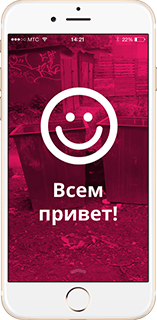
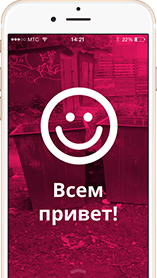
Стилизация главной страницы под планшет

diff --git a/src/index.html b/src/index.html
@@ -38,8 +38,8 @@
       <h1 class="visually-hidden">Pink.Приложение для работы с фотограффиями</h1>
       <section class="promo">
         <picture class="promo__picture picture">
-          <img class="promo__image" src="images/pictures/promo/iphone-6.png" width="320px" height="314px"
-            alt="Изображение Iphone-6 c приложением Pink">
+          <source media="(min-width: 768px)" srcset="images/pictures/promo/iphone-6-tablet.png">
+          <img class="promo__image" src="images/pictures/promo/iphone-6.png" alt="Изображение Iphone-6 c приложением Pink">
         </picture>
         <div class="promo__content-wrapper">
           <h2 class="promo__heading heading">Взгляните на жизнь иначе!</h2>
@@ -73,6 +73,7 @@
         <p class="advantages__text text">Устали от серости мегаполиса?</p>
         <p class="advantages__text text">Нам есть, что вам предложить!</p>
       </div>
+      <div class="advantages__content-wrapper">
       <ul class="advantages__list list">
         <li class="advantages__item">
           <h3 class="advantages__title heading">Поднимает настроение</h2>
@@ -93,10 +94,12 @@
         </li>
       </ul>
       <picture class="advantages__item-pictures picture">
+        <source media="(min-width: 768px)" srcset="images/pictures/advantages/iphone-screen-tablet.png">
         <img class="advantages__item-image" src="images/pictures/advantages/iphone-screen.png"
           alt="Скрин Iphone 5 со смайликом">
       </picture>
-      <div class="advantages__content-wrapper">
+    </div>
+      <!-- <div class="advantages__content-wrapper">
         <span class="advantages__timer">24</span>
         <ul class="advantages__list advantages__list--secondary  list">
           <h3 class="advantages__title heading">Эффект на 24 часа!</h3>
@@ -105,7 +108,7 @@
           </p>
           <a class="advantages__item-link link" href="#">Узнать больше об исследовании</a>
         </ul>
-      </div>
+      </div> -->
     </section>
 
     <section class="reviews">
@@ -129,24 +132,51 @@
     </section>
 
     <section class="price">
+      <div class="container">
       <h2 class="visually-hidden">Прайс цен на пакеты приложения</h2>
       <table class="price__table">
         <tr class="price__row">
           <th class="price__title">
-            <span class="price__title-package">Стандарт</span>
-            <span class="price__title-cost">3,99 USD</span>
+          </th>
+          <th class="price__title">
+            <div class="price__title-wrapper">
+              <span class="price__title-package">База</span>
+              <span class="price__title-cost">1,99 USD</span>
+            </div>
+          </th>
+          <th class="price__title">
+            <div class="price__title-wrapper">
+              <span class="price__title-package">Стандарт</span>
+              <span class="price__title-cost">3,99 USD</span>
+            </div>
+          </th>
+          <th class="price__title">
+            <div class="price__title-wrapper">
+              <span class="price__title-package">Анлим</span>
+              <span class="price__title-cost">9,99 USD</span>
+            </div>
           </th>
         </tr>
         <tr class="price__row">
           <td class="price__cell">Розовый фильтр</td>
+          <td class="price__cell">есть</td>
+          <td class="price__cell">есть</td>
+          <td class="price__cell">есть</td>
         </tr>
         <tr class="price__row">
           <td class="price__cell">Смайлики</td>
+          <td class="price__cell">нет</td>
+          <td class="price__cell">есть</td>
+          <td class="price__cell">есть</td>
         </tr>
         <tr class="price__row">
           <td class="price__cell">Комментарий</td>
+          <td class="price__cell">нет</td>
+          <td class="price__cell">нет</td>
+          <td class="price__cell">есть</td>
         </tr>
       </table>
+    </div>
       <div class="switch">
         <button class="switch__button button" type="button"><span class="visually-hidden">1</span></button>
         <button class="switch__button button" type="button"><span class="visually-hidden">2</span></button>
@@ -261,13 +291,10 @@
     <p class="footer-copyright">
       <span class="footer-copyright__text">Разработано</span>
       <a class="footer-copyright__link link" href="https://htmlacademy.ru">
-        <svg version="1.1" xmlns="http://www.w3.org/2000/svg" xmlns:xlink="http://www.w3.org/1999/xlink"
-          x="0px" y="0px" viewBox="0 0 1280 800" style="enable-background:new 0 0 1280 800;" xml:space="preserve" width="30px" height="35px">
-          <path class="st0" d="M640.8,303l-0.8-0.1l-76.7,8v140.6l76.7,45.6l76.7-45.6V310.9L640.8,303z M706.7,445.8L640,485.4l-66.7-39.7
-	v-57.6l66.4,39.5l0.1,7.2l-45.5-27.1l-0.1,7l45.7,27.5l0.1,7.3l-45.7-27.2l-0.1,7l45.7,27.5l46.2-27.6v-7l-0.1,0v-2.4v-2.9v-17.5
-	l20.6-12.3V445.8z M706.6,379.7l-18.2,10.7l-8.4,5l-40.1-23.9l-0.1,7l34.3,20.4l-0.3,0.2l-0.7,0.4l-4.9,2.9l-28.3-16.9l-0.1,7
-	l22.4,13.3l-5.3,3.5l-0.1,0.1l-16.9-10l-0.1,7l11.1,6.5l-11.3,6.8l-66-39.3l66.1-39.8v0L706.6,379.7z M706.7,372.7l-67-39.5v0l0,0
-	l0,0v0l-66.3,39.5V320l66.7-7l66.7,7V372.7z" />
+        <svg xmlns="http://www.w3.org/2000/svg" viewBox="0 0 153.4 194.2" width="30" height="35">
+          <path
+            d="M77.5.1l-.8-.1L0 8v140.6l76.7 45.6 76.7-45.6V8L77.5.1zm65.9 142.8l-66.7 39.6L10 142.8V85.2l66.4 39.5.1 7.2L31 104.8l-.1 7 45.7 27.5.1 7.3L31 119.4l-.1 7 45.7 27.5 46.2-27.6v-7h-.1V96.5l20.6-12.3.1 58.7h0zm-.1-66.1l-18.2 10.7-8.4 5-40.1-23.9-.1 7L110.8 96l-.3.2-.7.4-4.9 2.9-28.3-16.9-.1 7 22.4 13.3-5.3 3.5-.1.1-16.9-10-.1 7 11.1 6.5-11.3 6.8-66-39.3 66.1-39.8h0l66.9 39.1zm.1-7l-67-39.5h0L10.1 69.8V17.1l66.7-7 66.7 7v52.7h-.1z"
+            stroke="#231f20" stroke-miterlimit="10" />
         </svg>
         <span class="visually-hidden">HTML ACAdemy</span>
       </a>

diff --git a/src/css/style.css b/src/css/style.css
@@ -373,7 +373,8 @@ a {
   text-decoration: none; }
 
 img {
-  max-width: 100%; }
+  max-width: 100%;
+  height: auto; }
 
 .text {
   padding: 0;
@@ -541,9 +542,6 @@ img {
   font-weight: 700;
   color: #d22856; }
 
-.advantages__content-wrapper {
-  display: none; }
-
 .advantages__item-pictures {
   display: -webkit-box;
   display: -ms-flexbox;
@@ -553,8 +551,20 @@ img {
           justify-content: center; }
 
 @media (min-width: 768px) {
+  .advantages__text:first-child {
+    max-width: 593px;
+    margin-bottom: 0; }
   .advantages__content-wrapper {
-    display: block; } }
+    display: -webkit-box;
+    display: -ms-flexbox;
+    display: flex; }
+  .advantages__item-pictures {
+    -webkit-box-ordinal-group: 0;
+        -ms-flex-order: -1;
+            order: -1;
+    margin-right: 43px; }
+  .advantages__item-text {
+    text-align: left; } }
 
 .reviews {
   padding: 50px 0 0 0; }
@@ -773,8 +783,7 @@ img {
   border-collapse: collapse; }
 
 .price__row {
-  display: table-row;
-  border: 2px solid #f2f2f2; }
+  display: table-row; }
 
 .price__cell {
   display: table-cell;
@@ -783,11 +792,29 @@ img {
   font-weight: 400;
   color: #283645;
   text-transform: uppercase;
-  padding: 25px 15px 25px 23px; }
+  padding: 25px 15px 25px 23px;
+  border: 2px solid #f2f2f2;
+  text-align: center; }
 
 .price__title {
   background-color: #283645;
   padding: 25px 90px; }
+
+.price__title-wrapper {
+  display: -webkit-box;
+  display: -ms-flexbox;
+  display: flex;
+  -webkit-box-orient: vertical;
+  -webkit-box-direction: normal;
+      -ms-flex-direction: column;
+          flex-direction: column; }
+
+.price__title:nth-child(3) {
+  border-left: 2px solid #f2f2f2;
+  border-right: 2px solid #f2f2f2; }
+
+.price__title:first-child {
+  background-color: transparent; }
 
 .price__title-package {
   font-size: 18px;
@@ -818,8 +845,9 @@ img {
           align-items: center; }
 
 .promo__heading {
-  font-size: 24px;
+  font-size: 40px;
   font-weight: 300;
+  text-align: center;
   color: #ffffff;
   display: none; }
 
@@ -892,7 +920,22 @@ img {
   .promo {
     display: -webkit-box;
     display: -ms-flexbox;
-    display: flex; } }
+    display: flex;
+    -webkit-box-orient: horizontal;
+    -webkit-box-direction: reverse;
+        -ms-flex-direction: row-reverse;
+            flex-direction: row-reverse; }
+  .promo__heading {
+    display: block;
+    max-width: 208px;
+    margin-bottom: 35px; }
+  .promo__picture {
+    -webkit-transform: translateX(-215px) translateY(60px);
+            transform: translateX(-215px) translateY(60px);
+    z-index: 1; }
+  .promo__content-wrapper {
+    background-color: transparent;
+    z-index: 2; } }
 
 .switch {
   display: -webkit-box;

diff --git a/src/scss/blocks/promo.scss b/src/scss/blocks/promo.scss
@@ -5,8 +5,9 @@
 }
 
 .promo__heading {
-  font-size: 24px;
+  font-size: 40px;
   font-weight: 300;
+  text-align: center;
   color: #ffffff;
   display: none;
 }
@@ -78,9 +79,26 @@
   display: block;
 }
 
-@media(min-width: $mobile-width) {
+@media(min-width: $tablet-width) {
   .promo {
     display: flex;
+    flex-direction: row-reverse;
+  }
+
+  .promo__heading {
+    display: block;
+    max-width: 208px;
+    margin-bottom: 35px;
+  }
+
+  .promo__picture {
+    transform: translateX(-215px) translateY(60px);
+    z-index: 1;
+  }
+
+  .promo__content-wrapper {
+    background-color: transparent;
+    z-index: 2;
   }
 }
 

diff --git a/src/scss/blocks/price.scss b/src/scss/blocks/price.scss
@@ -9,7 +9,6 @@
 
 .price__row {
   display: table-row;
-  border: 2px solid #f2f2f2;
 }
 
 .price__cell {
@@ -20,11 +19,27 @@
   color: #283645;
   text-transform: uppercase;
   padding: 25px 15px 25px 23px;
+  border: 2px solid #f2f2f2;
+  text-align: center;
 }
 
 .price__title {
   background-color: #283645;
   padding: 25px 90px;
+}
+
+.price__title-wrapper {
+  display: flex;
+  flex-direction: column;
+}
+
+.price__title:nth-child(3) {
+  border-left: 2px solid #f2f2f2;
+  border-right: 2px solid #f2f2f2;
+}
+
+.price__title:first-child {
+  background-color: transparent;
 }
 
 .price__title-package {

diff --git a/src/scss/blocks/advantages.scss b/src/scss/blocks/advantages.scss
@@ -57,17 +57,27 @@
   color: #d22856;
 }
 
-.advantages__content-wrapper {
-  display: none;
-}
-
 .advantages__item-pictures {
   display: flex;
   justify-content: center;
 }
 
-@media(min-width: $mobile-width) {
+@media(min-width: $tablet-width) {
+  .advantages__text:first-child {
+    max-width: 593px;
+    margin-bottom: 0;
+  }
+
   .advantages__content-wrapper {
-    display: block;
+    display: flex;
+  }
+
+  .advantages__item-pictures {
+    order: -1;
+    margin-right: 43px;
+  }
+
+  .advantages__item-text {
+    text-align: left;
   }
 }

diff --git a/src/scss/blocks/contact.scss b/src/scss/blocks/contact.scss
@@ -40,7 +40,7 @@
   margin-bottom: 25px;
 }
 
-@media(min-width: $mobile-width) {
+@media(min-width: $tablet-width) {
   .contact__list {
     display: flex;
     flex-wrap: wrap;

diff --git a/src/scss/variables.scss b/src/scss/variables.scss
@@ -1,2 +1,2 @@
-$mobile-width: 768px;
+$tablet-width: 768px;
 $desktop-width: 1200px;

diff --git a/src/scss/base.scss b/src/scss/base.scss
@@ -32,4 +32,5 @@ a {
 
 img {
   max-width: 100%;
+  height: auto;
 }
